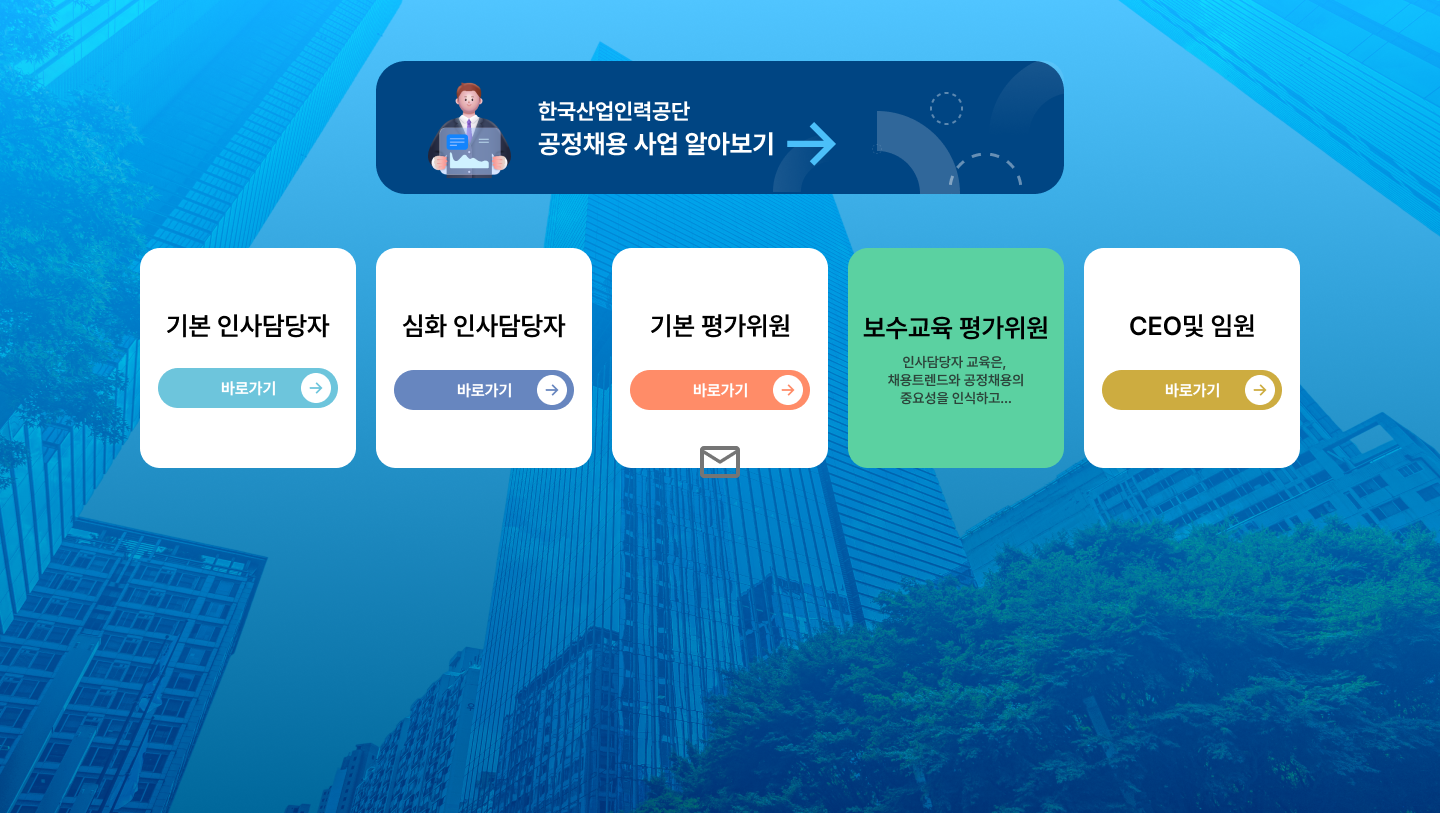
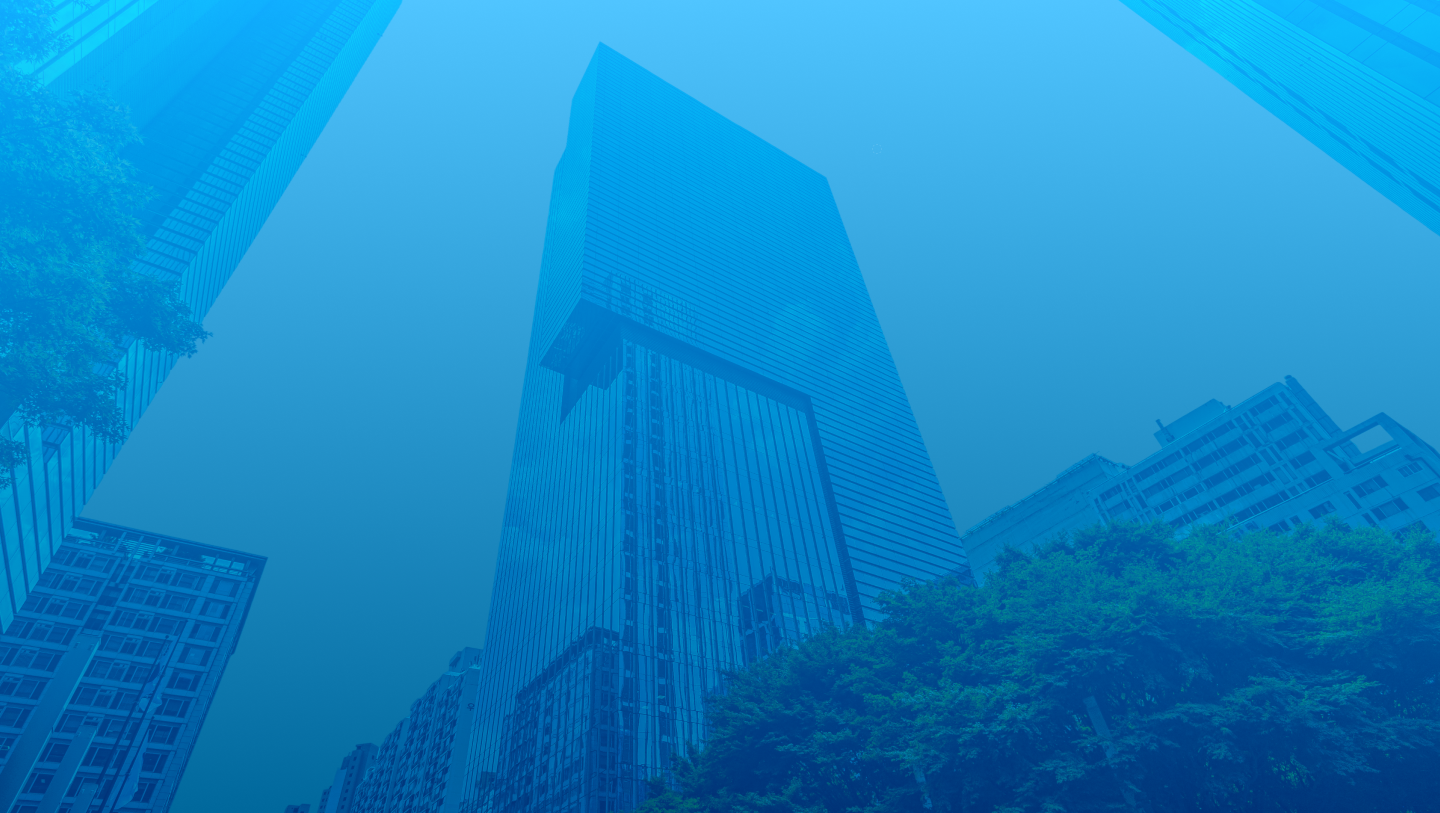
main

Changed region(s): [[0.0938, 0.3075, 0.9062, 0.5843], [0.25, 0.0615, 0.75, 0.246]]

diff --git a/src/scss/pages/_main.scss b/src/scss/pages/_main.scss
@@ -8,10 +8,10 @@
 
 .main{
     padding: 6rem 0 7rem;
-    //background: url(#{$image-path}/main-bg.png) no-repeat center center / cover;
+    background: url(#{$image-path}/main-bg.png) no-repeat center center / cover;
     &-container{
         margin: 0 auto;
-        width: 104rem;
+        width: 116rem;
     }
     &-banner{
         margin: 0 auto;
@@ -58,8 +58,10 @@
                 flex-direction: column;
                 align-items: center;
                 height: 22rem;
+                width: 21.6rem;
                 justify-content: center;
                 gap:2.4rem 0;
+                padding: 0 1.8rem;
                 span{
                     text-align: center;
                     font-weight: 600;
@@ -87,6 +89,112 @@
                         top: .5rem;
                         background-color: #fff;
                         border-radius: 50%;
+                    }
+                }
+            }
+        }
+    }
+    &-board{
+        display: flex;
+        justify-content: space-between;
+        margin-top: 2.5rem;
+    }
+    &-notice{
+        background: #fff;
+        border-radius: 2rem;
+        padding:1.6rem 2.4rem;
+        width: 68.8rem;
+        height: 24.8rem;
+        &-hgroup{
+            display: flex;
+            justify-content: space-between;
+            align-items: center;
+            h3{font-size: 2.4rem;font-weight: 600;}
+            a{font-size: 1.8rem;color: #2764E7;}
+        }
+        &-list{
+            margin-top: 2.4rem;
+            li{
+                height: 4rem;
+                a{
+                    display: flex;
+                    justify-content: space-between;
+                    align-items: center;
+                    position: relative;
+                    padding-left: 1.5rem;
+                    &::before{
+                        position: absolute;
+                        left: 0;
+                        top: 50%;
+                        transform: translateY(-50%);
+                        content: '';
+                        display: inline-block;
+                        width: .4rem;
+                        height: .4rem;
+                        background: #aaa;
+                        border-radius: 50%;
+                    }
+                    .subject{
+                        color: #666666;
+                        font-size: 1.6rem;
+                        text-overflow: ellipsis;
+                        overflow: hidden;
+                        white-space: nowrap;
+                        width: 80%;
+                    }
+                    .date{font-size: 1.6rem;color: #C4C4C4;}
+                }
+            }
+        }
+    }
+    &-related-board{
+        background: rgb(#fff,0.6);
+        border-radius: 2rem;
+        padding:1rem 3.4rem;
+        width: 45.2rem;
+        h3{font-size: 1.8rem;color: #212121;}
+        &-list{
+            margin-top: 2.4rem;
+            a{
+                display: flex;
+                align-items: center;
+                gap: 0 1.6rem;
+                background-image: linear-gradient(to bottom, #fff, #C5C5C5);
+                height: 5.3rem;
+                border-radius: .5rem;
+                padding-left: 2.6rem;
+                position: relative;
+                &::after{
+                    position: absolute;
+                    right: 2.6rem;
+                    top: 50%;
+                    transform: translateY(-50%);
+                    content: '';
+                    display: inline-block;
+                    width: 1rem;
+                    height: 2rem;
+                    background: url(#{$image-path}/main-related-arw.png) no-repeat center center / contain;
+                }
+                &:not(:last-child){margin-bottom: .7rem;}
+                span{
+                    font-size: 1.8rem;
+                    color: #212121;
+                    font-weight: 700;
+                }   
+                i{
+                    display: inline-flex;
+                    width: 3rem;
+                    height:3rem;
+                    background-repeat: no-repeat;
+                    background-position: 50% 50%;
+                    &.icon1{
+                        background-image: url(#{$image-path}/main-related-1.png);
+                    }
+                    &.icon2{
+                        background-image: url(#{$image-path}/main-related-2.png);
+                    }
+                    &.icon3{
+                        background-image: url(#{$image-path}/main-related-3.png);
                     }
                 }
             }

diff --git a/src/pages/index.html b/src/pages/index.html
@@ -48,22 +48,31 @@
 
             <section class="main-board">
                 <div class="main-notice">
-                    
+                    <div class="main-notice-hgroup">
+                        <h3>공지사항</h3>
+                        <a href="#">더보기</a>
+                    </div>
+                    <ul class="main-notice-list">
+                        <li><a href="#"><span class="subject">공정채용 기업교육의 공지사항글이 올라옵니다.</span><span class="date">2025-04-17</span></a></li>
+                        <li><a href="#"><span class="subject">공정채용 기업교육의 공지사항글이 올라옵니다.</span><span class="date">2025-04-17</span></a></li>
+                        <li><a href="#"><span class="subject">공정채용 기업교육의 공지사항글이 올라옵니다.</span><span class="date">2025-04-17</span></a></li>
+                        <li><a href="#"><span class="subject">공정채용 기업교육의 공지사항글이 올라옵니다.</span><span class="date">2025-04-17</span></a></li>
+                    </ul>
                 </div>
                 <div class="main-related-board">
-                    <h3></h3>
+                    <h3>공정채용 유관사이트</h3>
                     <div class="main-related-board-list">
                         <a href="#">
-                            <i></i>
-                            <span></span>
+                            <i class="icon1"></i>
+                            <span>공정채용 사이트</span>
                         </a>
                         <a href="#">
-                            <i></i>
-                            <span></span>
+                            <i class="icon2"></i>
+                            <span>채용 평가위원 신청</span>
                         </a>
                         <a href="#">
-                            <i></i>
-                            <span></span>
+                            <i class="icon3"></i>
+                            <span>공정채용 자료실</span>
                         </a>
                     </div>
                 </div>
